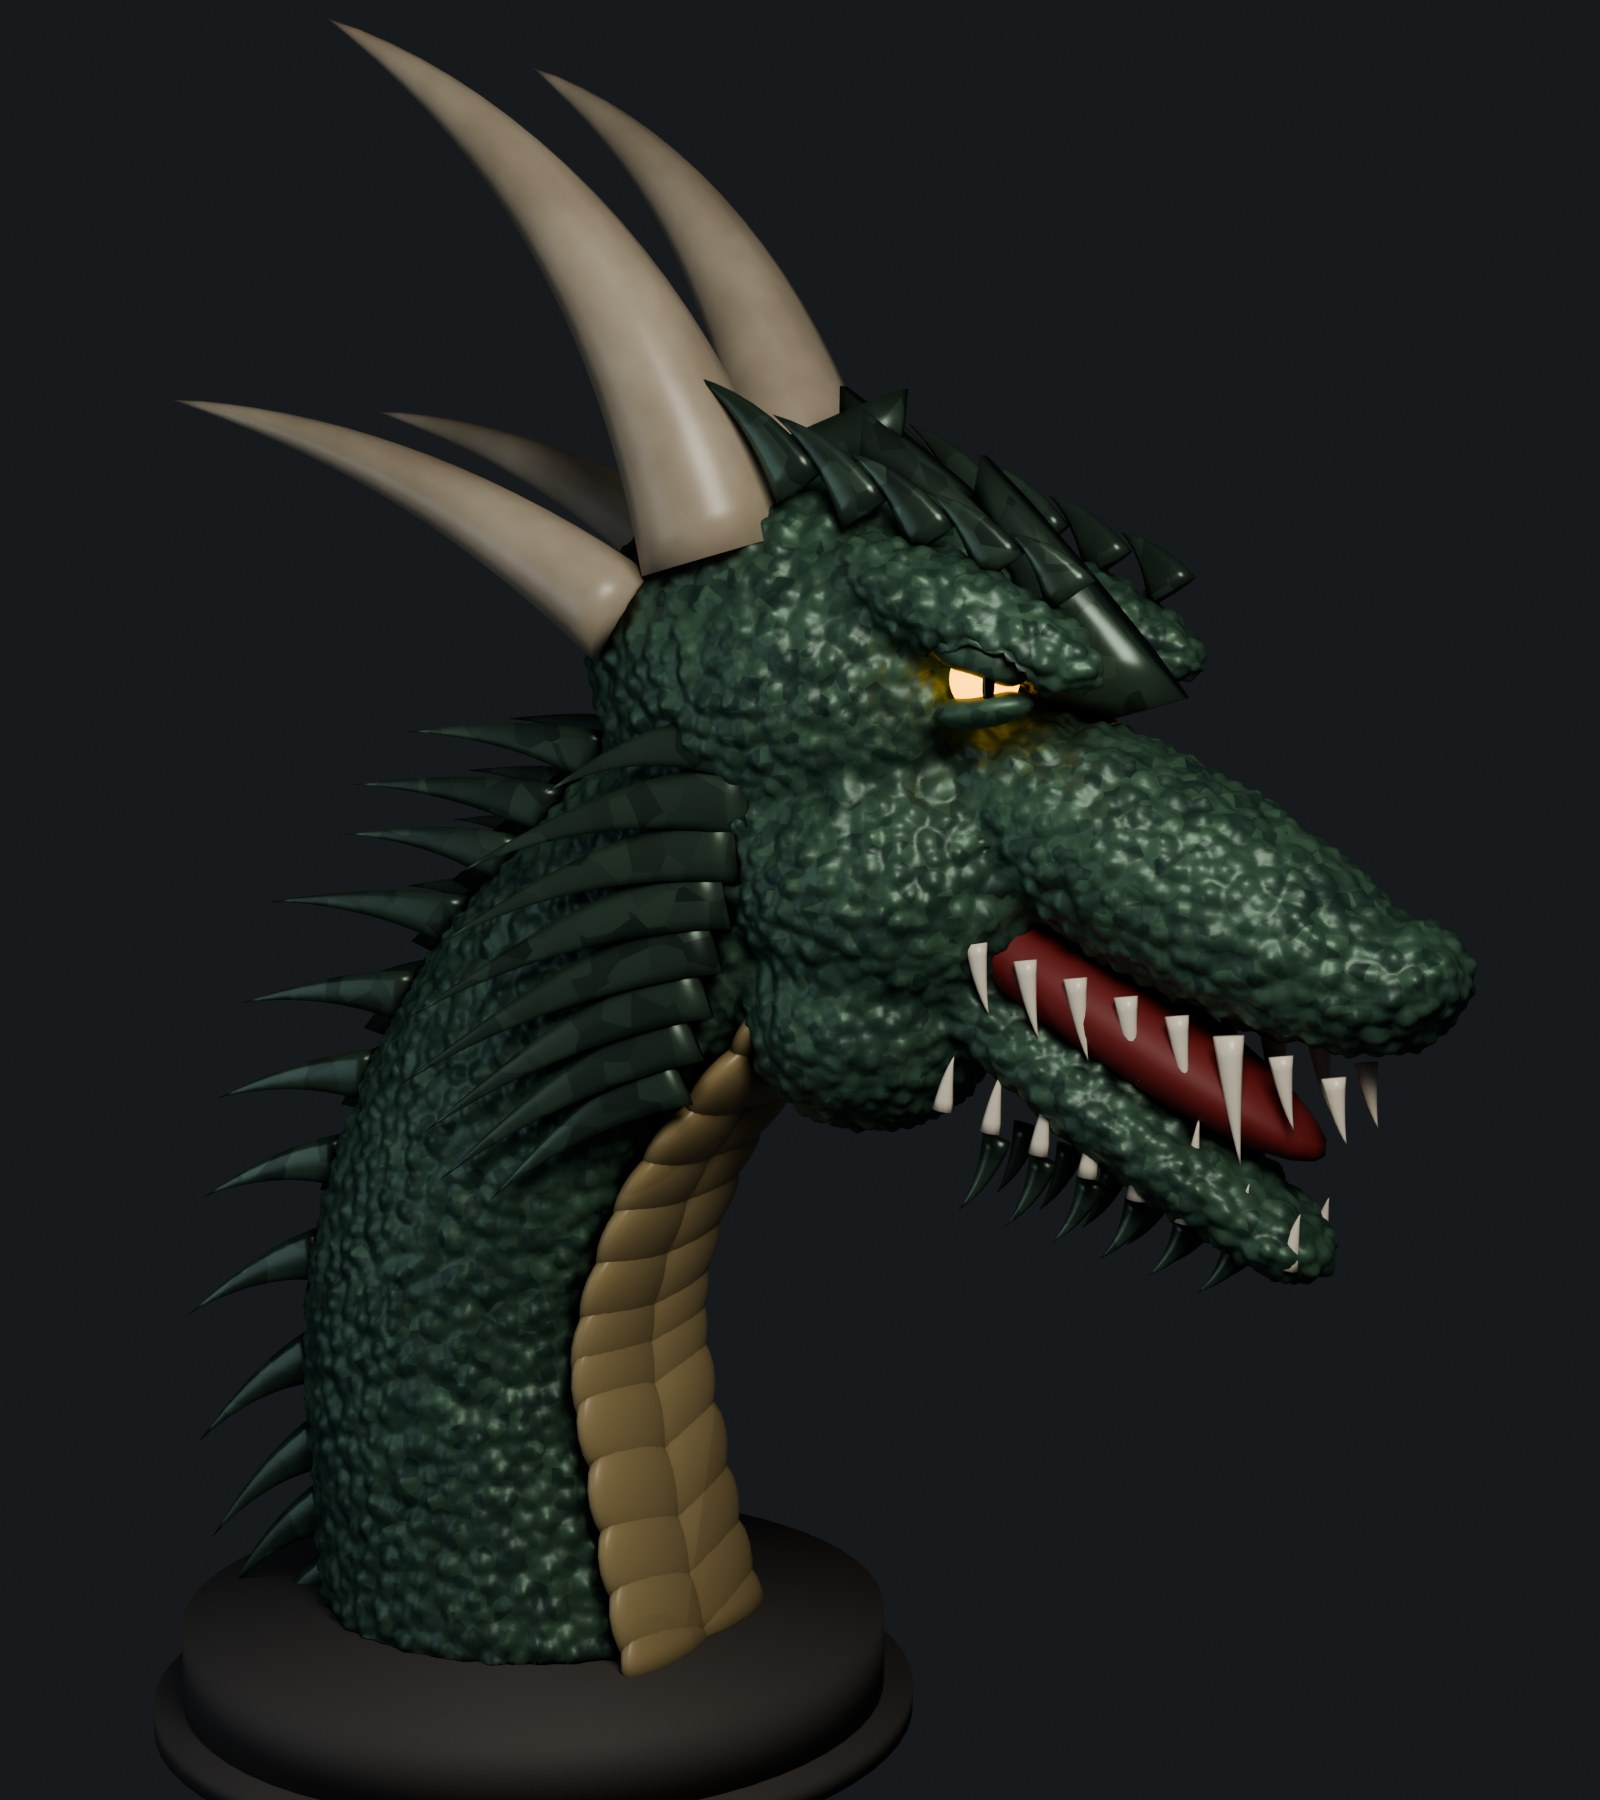
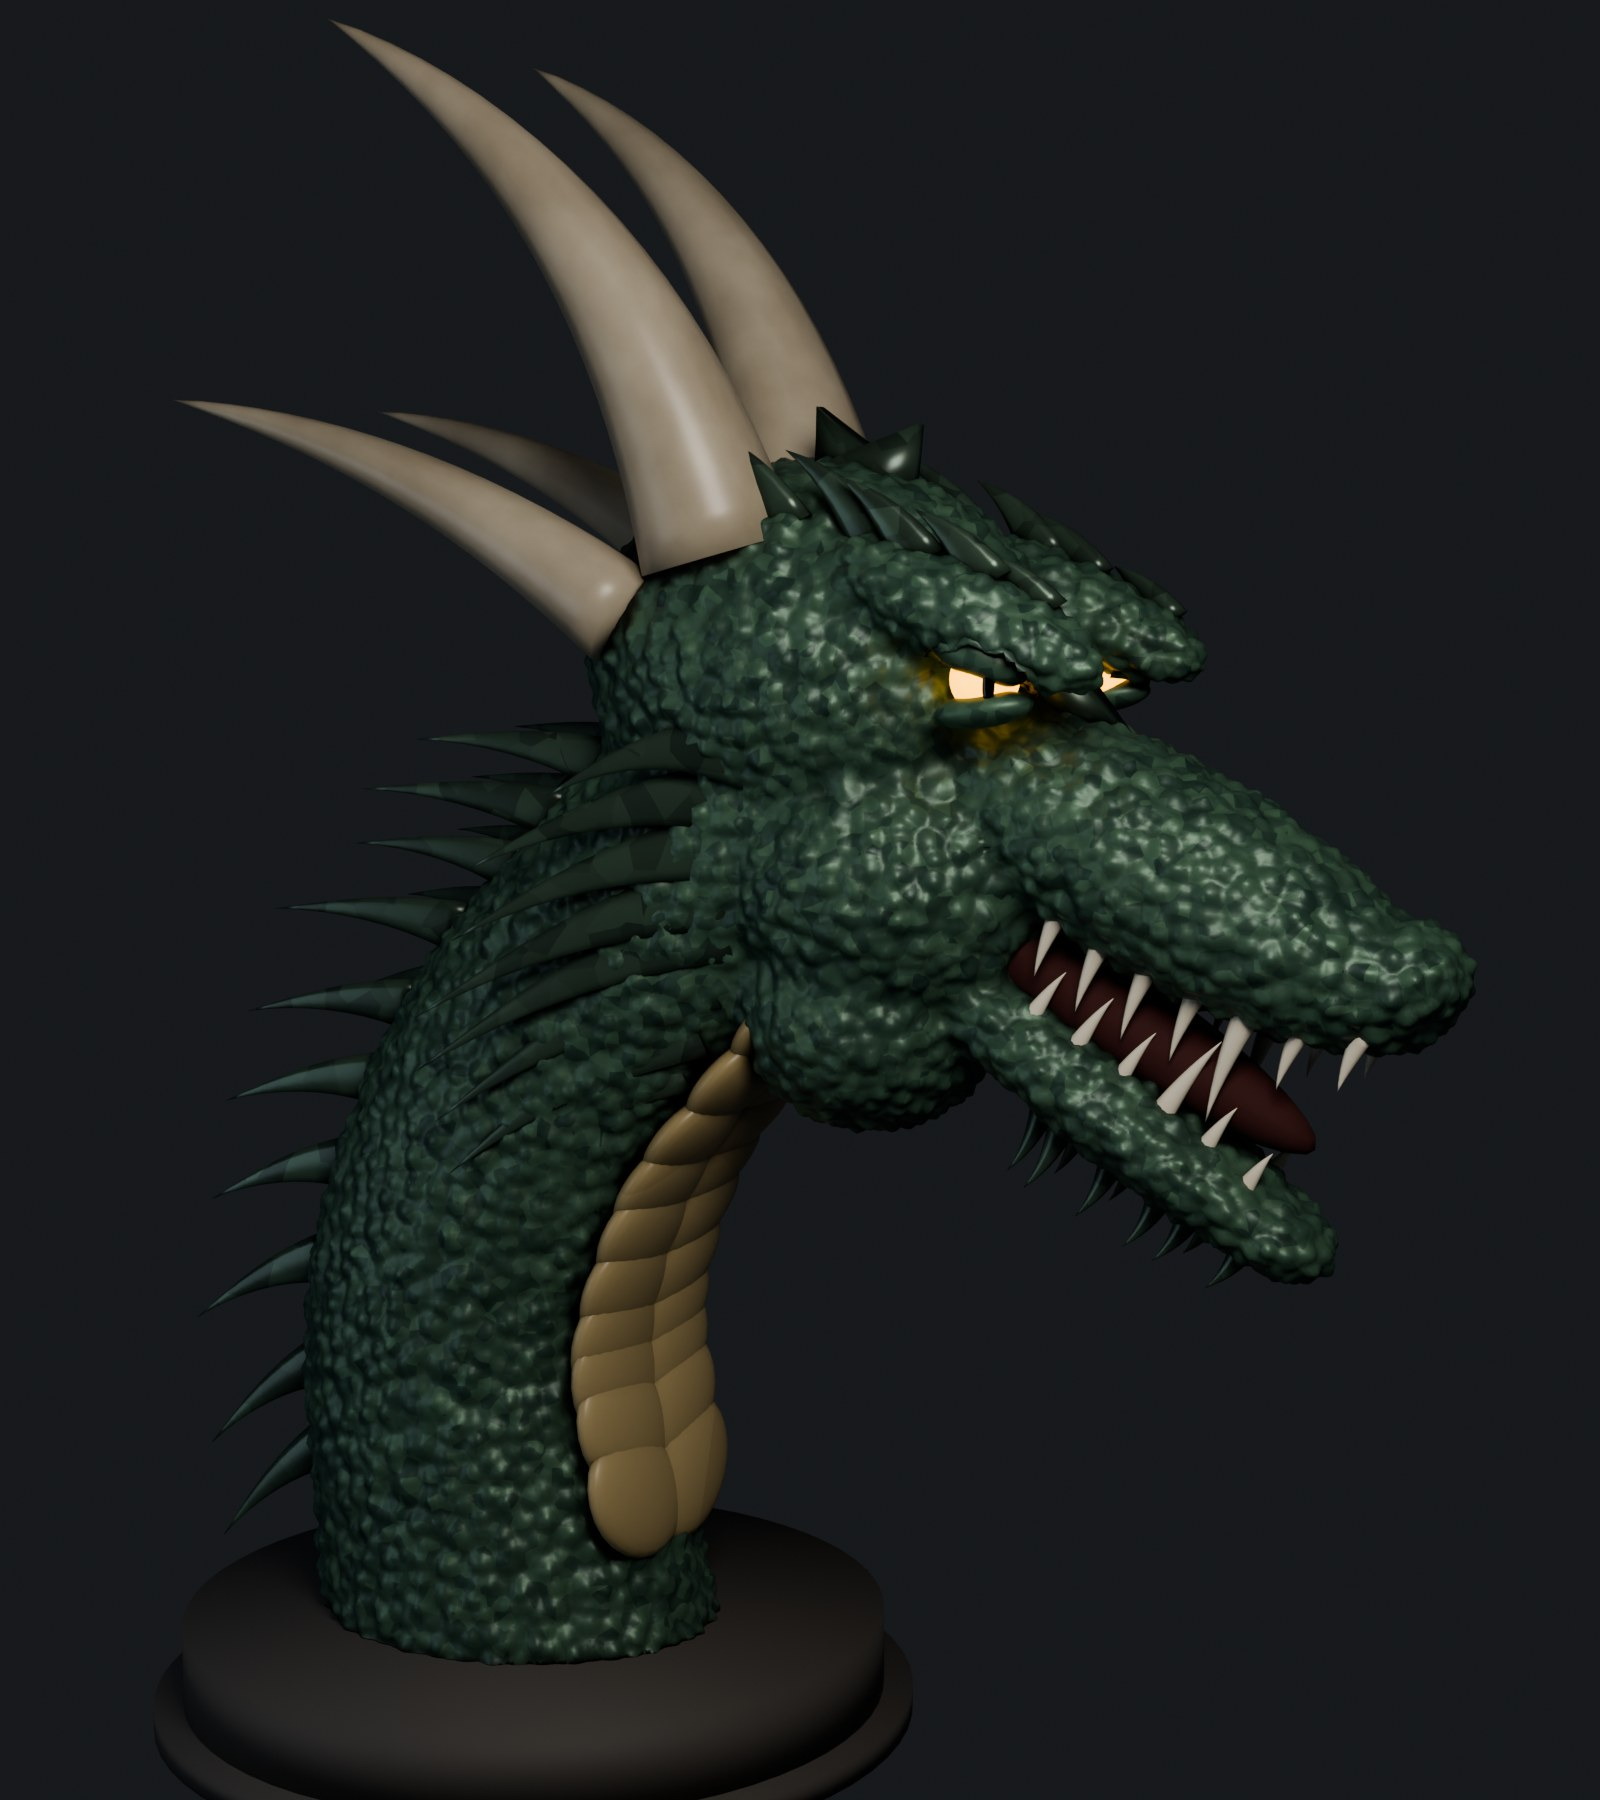
Dragon: root teeth and spikes in the skin, flat base, built-in validation
Teeth floated and neck spikes passed through the plinth; hero renders hid
both. Teeth are now placed by ray-casting from the mouth gap onto the gum
and sunk into it; every spike and plate is moved onto the nearest skin and
sunk in. Parts that would reach the plinth are not made, so the neck stands
flat on it. Narrow, dark mouth interior.

Every build now validates the geometry: nothing floats, no joined part
loses pieces, nothing passes through the plinth. --check also renders
close-ups (mouth, chin, throat, base, horns) and fails the build on any
problem. Validation found 15 more floating pieces (chin spikes, brow and
frill plates), now fixed.

diff --git a/dragon/build_dragon.py b/dragon/build_dragon.py
@@ -19,6 +19,7 @@ import sys
 import bmesh
 import bpy
 from mathutils import Matrix, Vector
+from mathutils.bvhtree import BVHTree
 
 HERE = os.path.dirname(os.path.abspath(__file__))
 ARGS = sys.argv[sys.argv.index("--") + 1:] if "--" in sys.argv else []
@@ -112,7 +113,7 @@ PLATE = mat_scales("Plates", (0.03, 0.05, 0.04), (0.08, 0.14, 0.10), rough=0.3, 
                    sheen=0.4)
 HORN = mat_horn("Horn")
 TOOTH = mat_flat("Tooth", (0.85, 0.80, 0.66), rough=0.3)
-MOUTH = mat_flat("Mouth", (0.18, 0.02, 0.02), rough=0.6)
+MOUTH = mat_flat("Mouth", (0.05, 0.008, 0.008), rough=0.85)   # reads as a dark cavity
 EYE = mat_flat("Eye", (0.9, 0.5, 0.05), rough=0.1, emission=(1.0, 0.45, 0.02), strength=4.0)
 PUPIL = mat_flat("Pupil", (0.0, 0.0, 0.0), rough=0.1)
 STONE = mat_flat("Plinth", (0.08, 0.075, 0.07), rough=0.7)
@@ -304,27 +305,61 @@ for sy in (1, -1):
     ellipsoid("Eyelid_low", (7.1, 2.7 * sy, 18.92), (0.95, 0.55, 0.32), SKIN, rot=(0, -0.15, 0))
 
 # ---------------------------------------------------------------- mouth and teeth
-ellipsoid("Mouth", (8.4, 0, 13.4), (4.8, 1.55, 0.9), MOUTH, rot=(0, 0.52, 0))
+MOUTH_C, MOUTH_TILT = Vector((8.4, 0, 13.4)), 0.52
+# dark mouth interior, narrow enough to stay inside the jaws
+ellipsoid("Mouth", tuple(MOUTH_C), (4.6, 0.95, 0.85), MOUTH, rot=(0, MOUTH_TILT, 0))
+# Teeth are rooted on the real jaw surface: from a point in the mouth gap, cast
+# a ray up to the upper gum (or down to the lower), and sink the root into it.
+_bm = bmesh.new()
+_bm.from_mesh(body.data)
+_bm.transform(body.matrix_world)          # the body keeps an origin offset; rays are in world space
+gum = BVHTree.FromBMesh(_bm)
+_bm.free()
+along = Vector((math.cos(MOUTH_TILT), 0, -math.sin(MOUTH_TILT)))   # back of mouth -> snout tip
+up = Vector((math.sin(MOUTH_TILT), 0, math.cos(MOUTH_TILT)))       # towards the upper jaw
+ROOT_DEPTH = 0.35
+
+
+def rooted(name, p0, p1, p2, *args, **kw):
+    """A spike whose base is moved onto the nearest point of the skin and sunk
+    ROOT_DEPTH into it; the whole spike shifts with it, so its shape is kept."""
+    p0, p1, p2 = Vector(p0), Vector(p1), Vector(p2)
+    loc, normal, _, _ = gum.find_nearest(p0)
+    shift = (loc - normal * ROOT_DEPTH) - p0
+    p0, p1, p2 = p0 + shift, p1 + shift, p2 + shift
+    if min(p.z for p in bezier(p0, p1, p2, 12)) - args[0] < 0.2:
+        return None                   # would reach down into the plinth
+    return spike(name, p0, p1, p2, *args, **kw)
+
+
+def rooted_tooth(u, lateral, toward, length, radius):
+    """Tooth whose root is embedded in the gum the ray from the mouth gap hits;
+    None if the start point is inside the flesh (corner of the mouth)."""
+    start = MOUTH_C + along * u + Vector((0, lateral, 0))
+    hit, normal, _, _ = gum.ray_cast(start, toward, 4.0)
+    if hit is None or normal.dot(toward) > 0:
+        return None
+    root = hit + toward * ROOT_DEPTH
+    tip = hit - toward * length + along * 0.18 * length
+    mid = hit - toward * length * 0.5 + along * 0.04 * length
+    return spike("Tooth", root, mid, tip, radius, TOOTH, flat=0.8, n=8, ring=10)
+
+
 teeth = []
 for sy in (1, -1):
-    for i in range(9):
+    for i in range(9):                    # upper row, fang at i == 6
         s = i / 8
-        x = 5.6 + 7.4 * s
-        z = 14.5 - 2.0 * s - 0.3 * s * s
-        y = (1.85 - 0.95 * s) * sy
-        length = 0.75 + 0.35 * math.sin(math.pi * s) + (0.9 if i == 6 else 0)
-        teeth.append(spike("Tooth", (x, y, z + 0.4), (x + 0.1, y, z - length * 0.5),
-                           (x + 0.25, y * 0.97, z - length), 0.22 + 0.06 * (i == 6), TOOTH,
-                           flat=0.8, n=8, ring=10))
-    for i in range(8):
+        length = 0.8 + 0.35 * math.sin(math.pi * s) + (0.9 if i == 6 else 0)
+        teeth.append(rooted_tooth(-3.2 + 7.6 * s, (1.5 - 0.75 * s) * sy, up, length,
+                                  0.22 + 0.06 * (i == 6)))
+    for i in range(8):                    # lower row, fang at i == 5
         s = i / 7
-        x = 5.8 + 6.4 * s
-        z = 11.9 - 2.4 * s
-        y = (1.55 - 0.75 * s) * sy
-        length = 0.6 + 0.3 * math.sin(math.pi * s) + (0.7 if i == 5 else 0)
-        teeth.append(spike("Tooth", (x, y, z - 0.4), (x + 0.1, y, z + length * 0.5),
-                           (x + 0.2, y * 0.97, z + length), 0.2 + 0.05 * (i == 5), TOOTH,
-                           flat=0.8, n=8, ring=10))
+        length = 0.65 + 0.3 * math.sin(math.pi * s) + (0.7 if i == 5 else 0)
+        teeth.append(rooted_tooth(-2.8 + 6.8 * s, (1.25 - 0.6 * s) * sy, -up, length,
+                                  0.2 + 0.05 * (i == 5)))
+teeth = [t for t in teeth if t]
+print(f"Teeth rooted in the jaw: {len(teeth)} of 34")
+EXPECTED = {"Teeth": len(teeth)}       # pieces each joined part must still contain
 join(teeth, "Teeth")
 
 # ---------------------------------------------------------------- horns
@@ -333,6 +368,7 @@ horns += mirrored(spike, "Horn_main", 3, (1.4, 2.0, 21.6), (-0.2, 2.8, 28.4), (-
                   1.5, HORN, power=0.85, n=20)
 horns += mirrored(spike, "Horn_back", 3, (-0.4, 2.4, 20.4), (-4.6, 3.0, 23.6), (-10.2, 3.4, 24.6),
                   1.0, HORN, power=0.85, n=18)
+EXPECTED["Horns"] = len(horns)
 join(horns, "Horns")
 
 # ---------------------------------------------------------------- brow plates
@@ -343,7 +379,7 @@ for sy in (1, -1):
         bx, bz = 8.6 - 5.2 * s, 20.9 + 1.9 * s
         y = (2.35 + 0.25 * s) * sy
         L = 1.1 + 0.9 * s
-        plates.append(spike("BrowPlate", (bx, y, bz), (bx - 0.4 * L, y * 1.05, bz + 0.7 * L),
+        plates.append(rooted("BrowPlate", (bx, y, bz), (bx - 0.4 * L, y * 1.05, bz + 0.7 * L),
                             (bx - 1.0 * L, y * 1.08, bz + 1.0 * L), 0.55, PLATE, flat=0.3,
                             n=8, ring=10))
 
@@ -361,7 +397,7 @@ for i, p in enumerate(crest_line):
     out = Vector((nxt.z, 0, -nxt.x)).normalized() * -1
     back = nxt.normalized()
     tip = p + out * size + back * size * 0.75
-    plates.append(spike("Crest", p - out * 0.4, p + out * size * 0.45 + back * size * 0.1, tip,
+    plates.append(rooted("Crest", p - out * 0.4, p + out * size * 0.45 + back * size * 0.1, tip,
                         0.55 * size, PLATE, flat=0.16, n=10, ring=10, power=1.2))
 
 # ---------------------------------------------------------------- mane and frill
@@ -373,7 +409,7 @@ for sy in (1, -1):
         L = 4.6 + 1.8 * math.sin(math.pi * s) + random.uniform(-0.5, 0.5)
         d = Vector((-1.0, 0.32 * sy, -0.2 - 0.55 * s)).normalized()
         bend = Vector((0, 0, 0.9 - 0.4 * s))
-        plates.append(spike("Frill", base, base + d * L * 0.5 + bend, base + d * L, 0.75, PLATE,
+        plates.append(rooted("Frill", base, base + d * L * 0.5 + bend, base + d * L, 0.75, PLATE,
                             flat=0.24, n=12, ring=10, power=1.15))
 # mane spikes down the back of the neck
 for i, (p, (t, side, nrm)) in enumerate(zip(NECK_PATH, frames(NECK_PATH))):
@@ -384,7 +420,9 @@ for i, (p, (t, side, nrm)) in enumerate(zip(NECK_PATH, frames(NECK_PATH))):
         base = p - nrm * (NECK_R[i][1] - 0.5) + side * sy
         d = (-nrm * 1.0 + t * 0.7 + side * 0.25 * sy).normalized()
         L = 4.4 - 1.8 * s + random.uniform(-0.4, 0.4)
-        plates.append(spike("Mane", base, base + d * L * 0.5 - t * 0.5, base + d * L, 0.6,
+        if min(base.z, (base + d * L).z) < 0.8:    # would reach down into the plinth
+            continue
+        plates.append(rooted("Mane", base, base + d * L * 0.5 - t * 0.5, base + d * L, 0.6,
                             PLATE, flat=0.25, n=10, ring=10, power=1.15))
 
 # ---------------------------------------------------------------- chin spikes
@@ -394,9 +432,11 @@ for i in range(6):
     for sy in (0.7, -0.7):
         b = base + Vector((0, sy * (1 - 0.5 * s), 0))
         L = 1.4 - 0.5 * s
-        plates.append(spike("Chin", b, b + Vector((-0.2, 0, -L * 0.6)),
+        plates.append(rooted("Chin", b, b + Vector((-0.2, 0, -L * 0.6)),
                             b + Vector((-0.7, sy * 0.2, -L)), 0.3, PLATE, flat=0.5, n=8,
                             ring=8))
+plates = [p for p in plates if p]
+EXPECTED["Plates"] = len(plates)
 join(plates, "Plates")
 
 # ---------------------------------------------------------------- belly plates
@@ -407,6 +447,8 @@ for i, (p, (t, side, nrm)) in enumerate(zip(NECK_PATH, frames(NECK_PATH))):
         continue
     b = NECK_R[i][1]
     w = NECK_R[i][0] * 0.62
+    if p.z < 1.8:                     # would reach down into the plinth
+        continue
     for sgn in (1, -1):
         c = p + nrm * (b - 0.2) + side * sgn * w * 0.45 + t * 0.35
         bpy.ops.mesh.primitive_uv_sphere_add(segments=24, ring_count=12)
@@ -416,7 +458,11 @@ for i, (p, (t, side, nrm)) in enumerate(zip(NECK_PATH, frames(NECK_PATH))):
         size = Matrix.Diagonal((1.25, w * 0.75, 0.42, 1))
         o.matrix_world = Matrix.Translation(c) @ rot @ size
         belly.append(finish(o, "BellyPlate", BELLY))
+EXPECTED["BellyPlates"] = len(belly)
 join(belly, "BellyPlates")
+# Nothing is cut to fit the plinth (booleans on these joined parts silently
+# drop pieces): parts that would reach it are simply not made, the body is cut
+# flat at z = 0 above, and validate() checks both.
 
 # ---------------------------------------------------------------- plinth
 bpy.ops.mesh.primitive_cylinder_add(vertices=64, radius=7.2, depth=1.6, location=(-4.2, 0, -0.8))
@@ -470,9 +516,123 @@ scene.render.resolution_x, scene.render.resolution_y = 1600, 1800
 scene.view_settings.view_transform = "AgX"
 scene.view_settings.look = "AgX - Medium High Contrast"
 
+# ---------------------------------------------------------------- validation
+# Hero renders hide small defects, so the geometry is checked on every build:
+#   1. every separate piece (tooth, spike, horn, plate, eye...) touches or sinks
+#      into the body: nothing floats;
+#   2. nothing but the plinth goes below the plinth top, and everything resting
+#      on it stands within its rim.
+PLINTH_C, PLINTH_R = Vector((-4.2, 0.0)), 7.2
+TOUCH = 0.02
+
+
+def world_bmesh(obj):
+    bm = bmesh.new()
+    bm.from_mesh(obj.data)
+    bm.transform(obj.matrix_world)
+    return bm
+
+
+def islands(bm):
+    """Connected pieces of a mesh, as lists of vertex positions."""
+    seen, out = set(), []
+    for v in bm.verts:
+        if v.index in seen:
+            continue
+        stack, part = [v], []
+        seen.add(v.index)
+        while stack:
+            cur = stack.pop()
+            part.append(cur.co.copy())
+            for e in cur.link_edges:
+                o = e.other_vert(cur)
+                if o.index not in seen:
+                    seen.add(o.index)
+                    stack.append(o)
+        out.append(part)
+    return out
+
+
+def validate():
+    _b = world_bmesh(body)
+    flesh = BVHTree.FromBMesh(_b)
+    _b.free()
+    problems, pieces = [], 0
+    for o in scene.objects:
+        if o.type != "MESH" or o is body or o.name.startswith("Plinth"):
+            continue
+        bm = world_bmesh(o)
+        parts = islands(bm)
+        if o.name in EXPECTED and len(parts) != EXPECTED[o.name]:
+            problems.append(f"{o.name}: has {len(parts)} pieces, expected {EXPECTED[o.name]}")
+        for part in parts:
+            pieces += 1
+            attached = False
+            for co in part:
+                loc, normal, _, dist = flesh.find_nearest(co)
+                if loc is not None and (dist <= TOUCH or (co - loc).dot(normal) < 0):
+                    attached = True
+                    break
+            if not attached:
+                c = sum(part, Vector()) / len(part)
+                problems.append(f"{o.name}: piece at ({c.x:.1f}, {c.y:.1f}, {c.z:.1f}) floats")
+        bm.free()
+    for o in scene.objects:
+        if o.type != "MESH" or o.name.startswith("Plinth"):
+            continue
+        bm = world_bmesh(o)
+        low = min(v.co.z for v in bm.verts)
+        if low < -1e-4:
+            problems.append(f"{o.name}: goes {-low:.2f} below the plinth top")
+        outside = [v.co for v in bm.verts
+                   if v.co.z < 0.05 and (v.co.xy - PLINTH_C).length > PLINTH_R]
+        if outside:
+            problems.append(f"{o.name}: {len(outside)} points rest beyond the plinth rim")
+        bm.free()
+    print(f"\n=== Validation: {pieces} attached pieces checked ===")
+    for p in problems:
+        print("  FAIL", p)
+    print("  PASS: nothing floats, nothing passes through the plinth" if not problems
+          else f"  {len(problems)} problem(s)")
+    return problems
+
+
+PROBLEMS = validate()
+
 if "--preview" not in ARGS:
     bpy.ops.wm.save_as_mainfile(filepath=os.path.join(HERE, "dragon.blend"))
     print("Saved", os.path.join(HERE, "dragon.blend"))
+
+
+def check_closeups():
+    """Close-ups of the places hero shots hide: mouth, chin, base, back."""
+    folder = os.path.join(HERE, "check")
+    os.makedirs(folder, exist_ok=True)
+    scene.cycles.samples = 32
+    scene.render.resolution_percentage = 100
+    size = scene.render.resolution_x, scene.render.resolution_y
+    scene.render.resolution_x, scene.render.resolution_y = 900, 700
+    shots = [("mouth", (12.0, -14.0, 12.5), (9.0, 0, 12.0), 50),
+             ("chin", (16.0, -9.0, 6.0), (9.0, 0, 11.0), 45),
+             ("throat", (14.0, -20.0, 8.0), (-1.0, 0, 8.0), 40),
+             ("base_front", (8.0, -26.0, 3.0), (-4.2, 0, 0.5), 40),
+             ("base_back", (-24.0, -14.0, 4.0), (-4.2, 0, 0.5), 40),
+             ("horns_back", (-22.0, 18.0, 30.0), (-1.0, 0, 24.0), 45)]
+    keep = target.location.copy(), cam_color.location.copy(), cam_color.data.lens
+    for name, loc, look, lens in shots:
+        target.location, cam_color.location, cam_color.data.lens = look, loc, lens
+        scene.camera = cam_color
+        scene.render.filepath = os.path.join(folder, name + ".png")
+        bpy.ops.render.render(write_still=True)
+    target.location, cam_color.location, cam_color.data.lens = keep
+    scene.render.resolution_x, scene.render.resolution_y = size
+    print("Close-up check renders in", folder)
+
+
+if "--check" in ARGS:
+    check_closeups()
+    if PROBLEMS:
+        sys.exit(1)
 
 
 def ink_style():

diff --git a/dragon/README.md b/dragon/README.md
@@ -27,9 +27,28 @@ blender --background --python build_dragon.py -- --preview
 
 # build dragon.blend only
 blender --background --python build_dragon.py
+
+# validate, render close-ups of the mouth, chin, throat, base and horns into check/,
+# and exit with an error if anything fails (~1 min); run before committing changes
+blender --background --python build_dragon.py -- --check
 ```
 
 The README images in `images/` are compressed copies of the two renders.
+
+## Validation
+
+Every build checks the geometry and prints a report, because small defects don't show up in
+full-bust renders:
+
+- **Nothing floats:** each separate piece (tooth, spike, horn, plate, eye) must touch or sink
+  into the head and neck. Floating pieces are listed with their position.
+- **Nothing is lost:** each joined part (teeth, horns, plates, belly plates) must still contain
+  as many pieces as were made.
+- **Nothing passes through the plinth:** only the plinth may go below its top surface, the
+  bust's flat underside must rest within its rim, and parts that would reach it are not made.
+
+Teeth and spikes are rooted on the real skin: teeth by casting a ray from the mouth gap to the
+gum, and spikes by moving their base to the nearest point on the skin. Both sink 0.35 units in.
 
 ## How it is built
 
